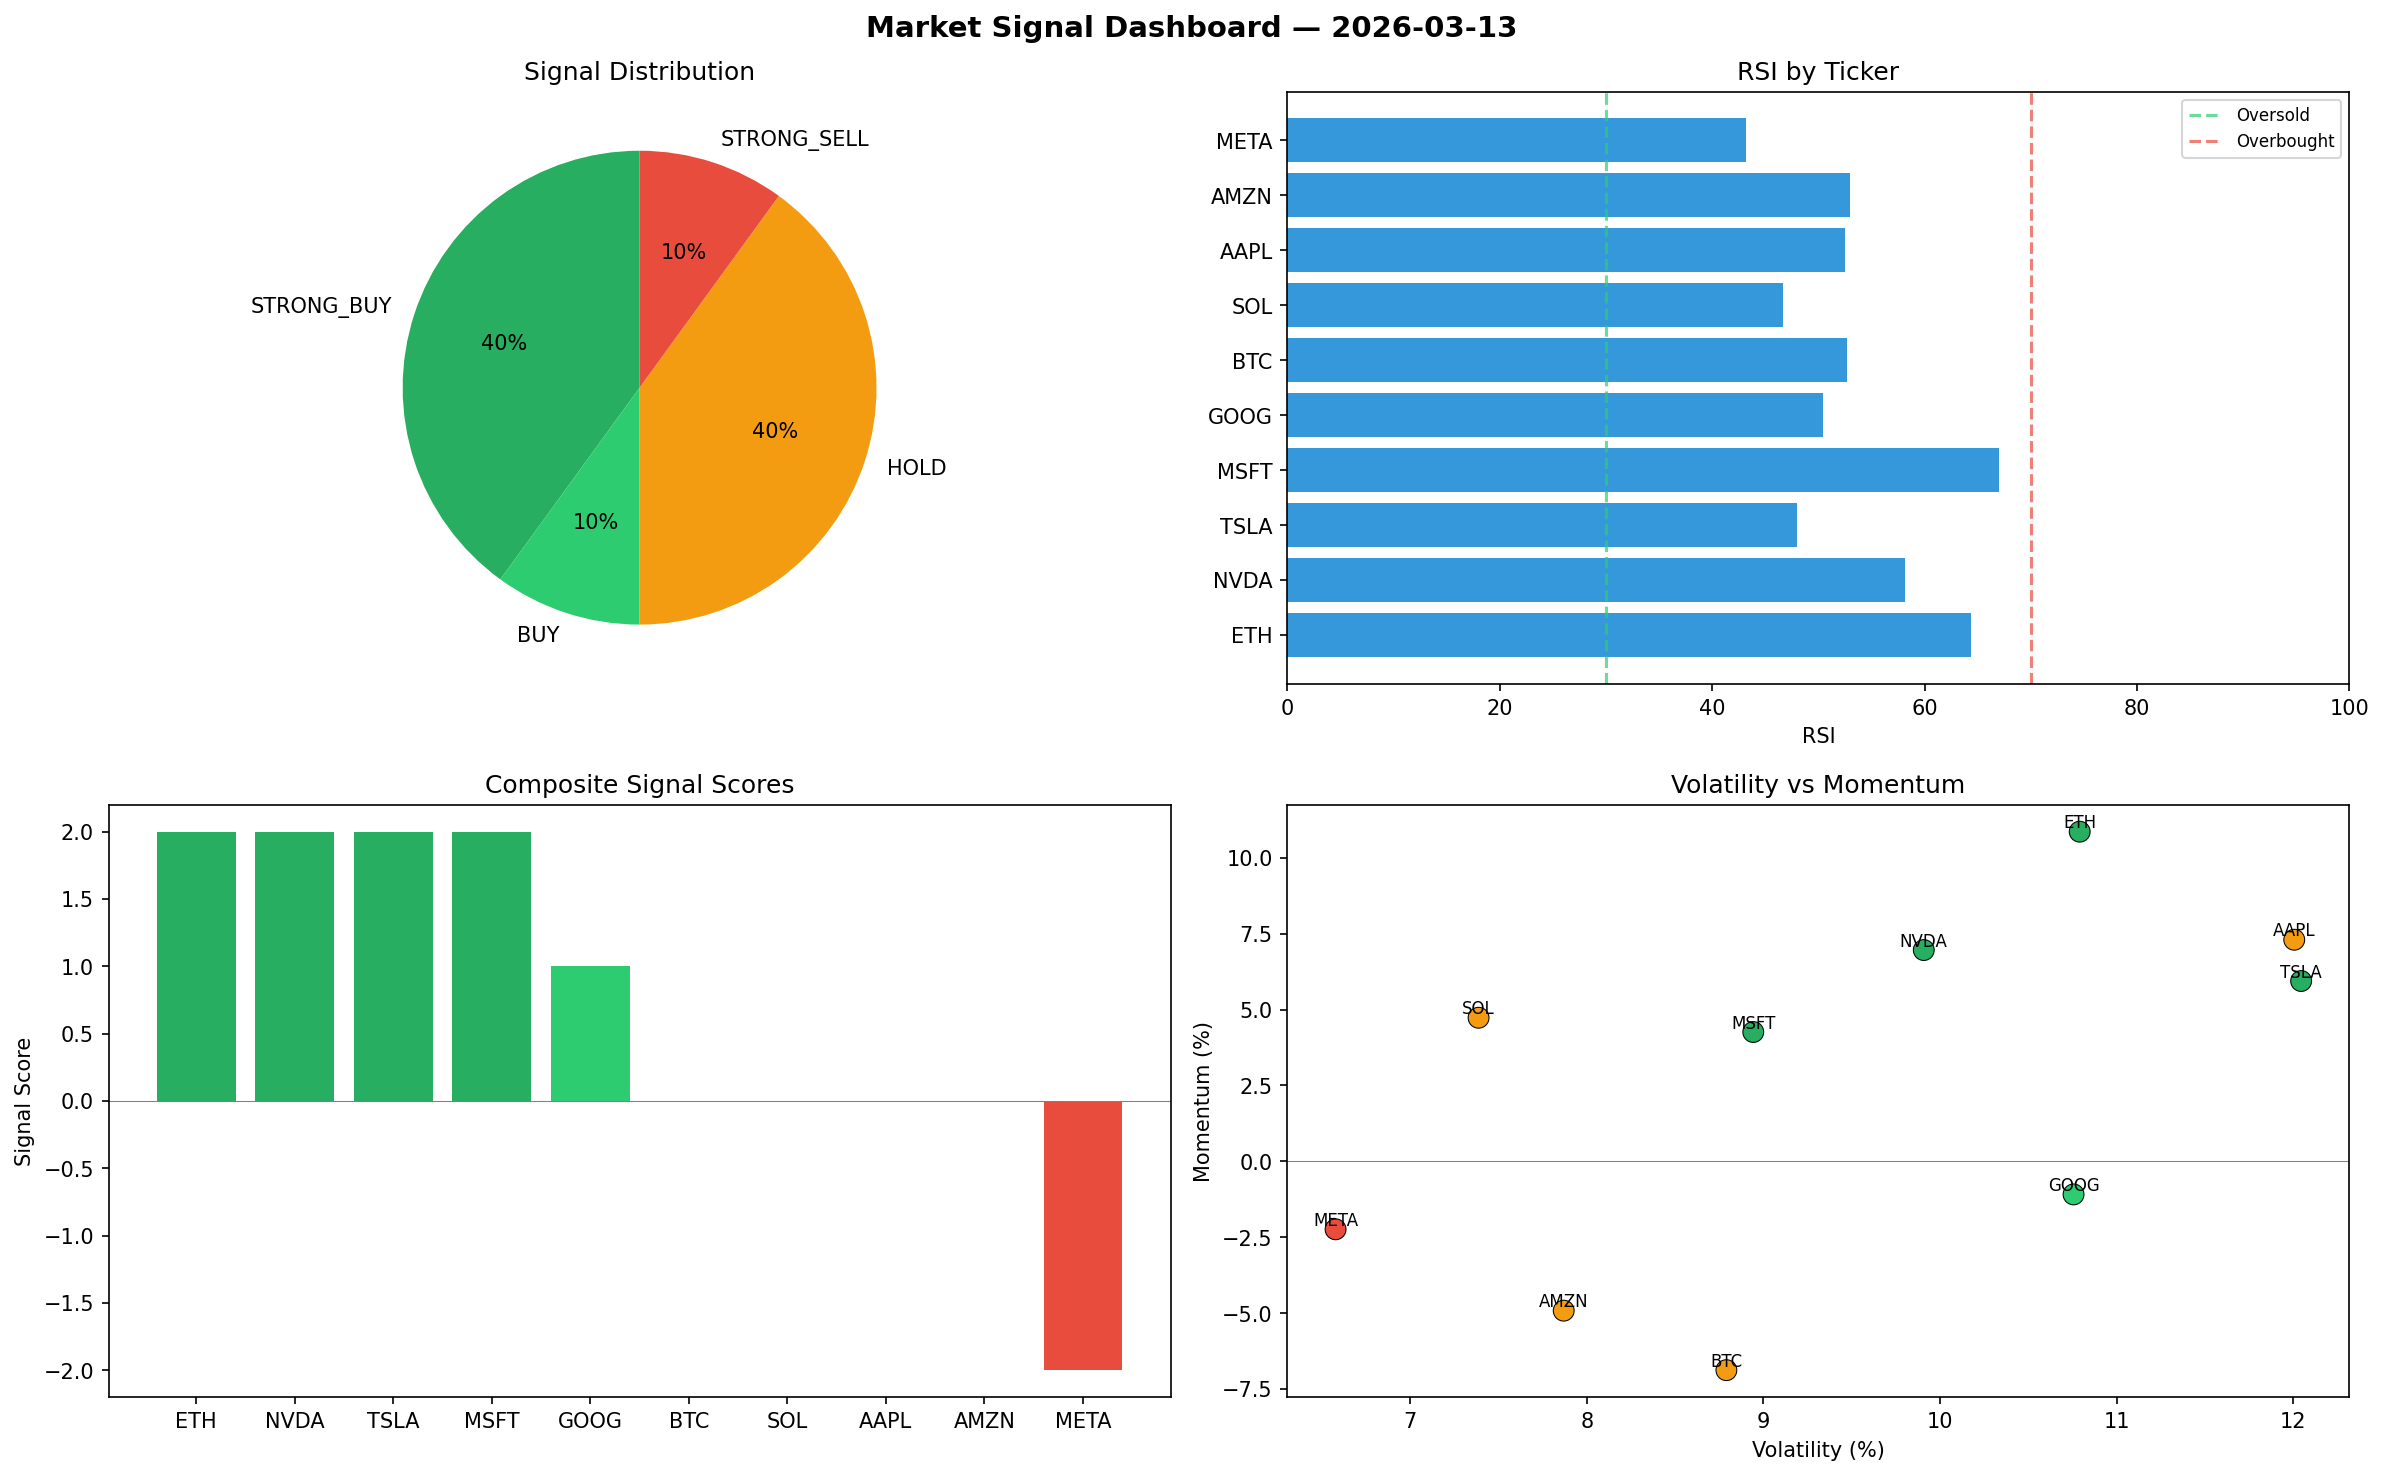
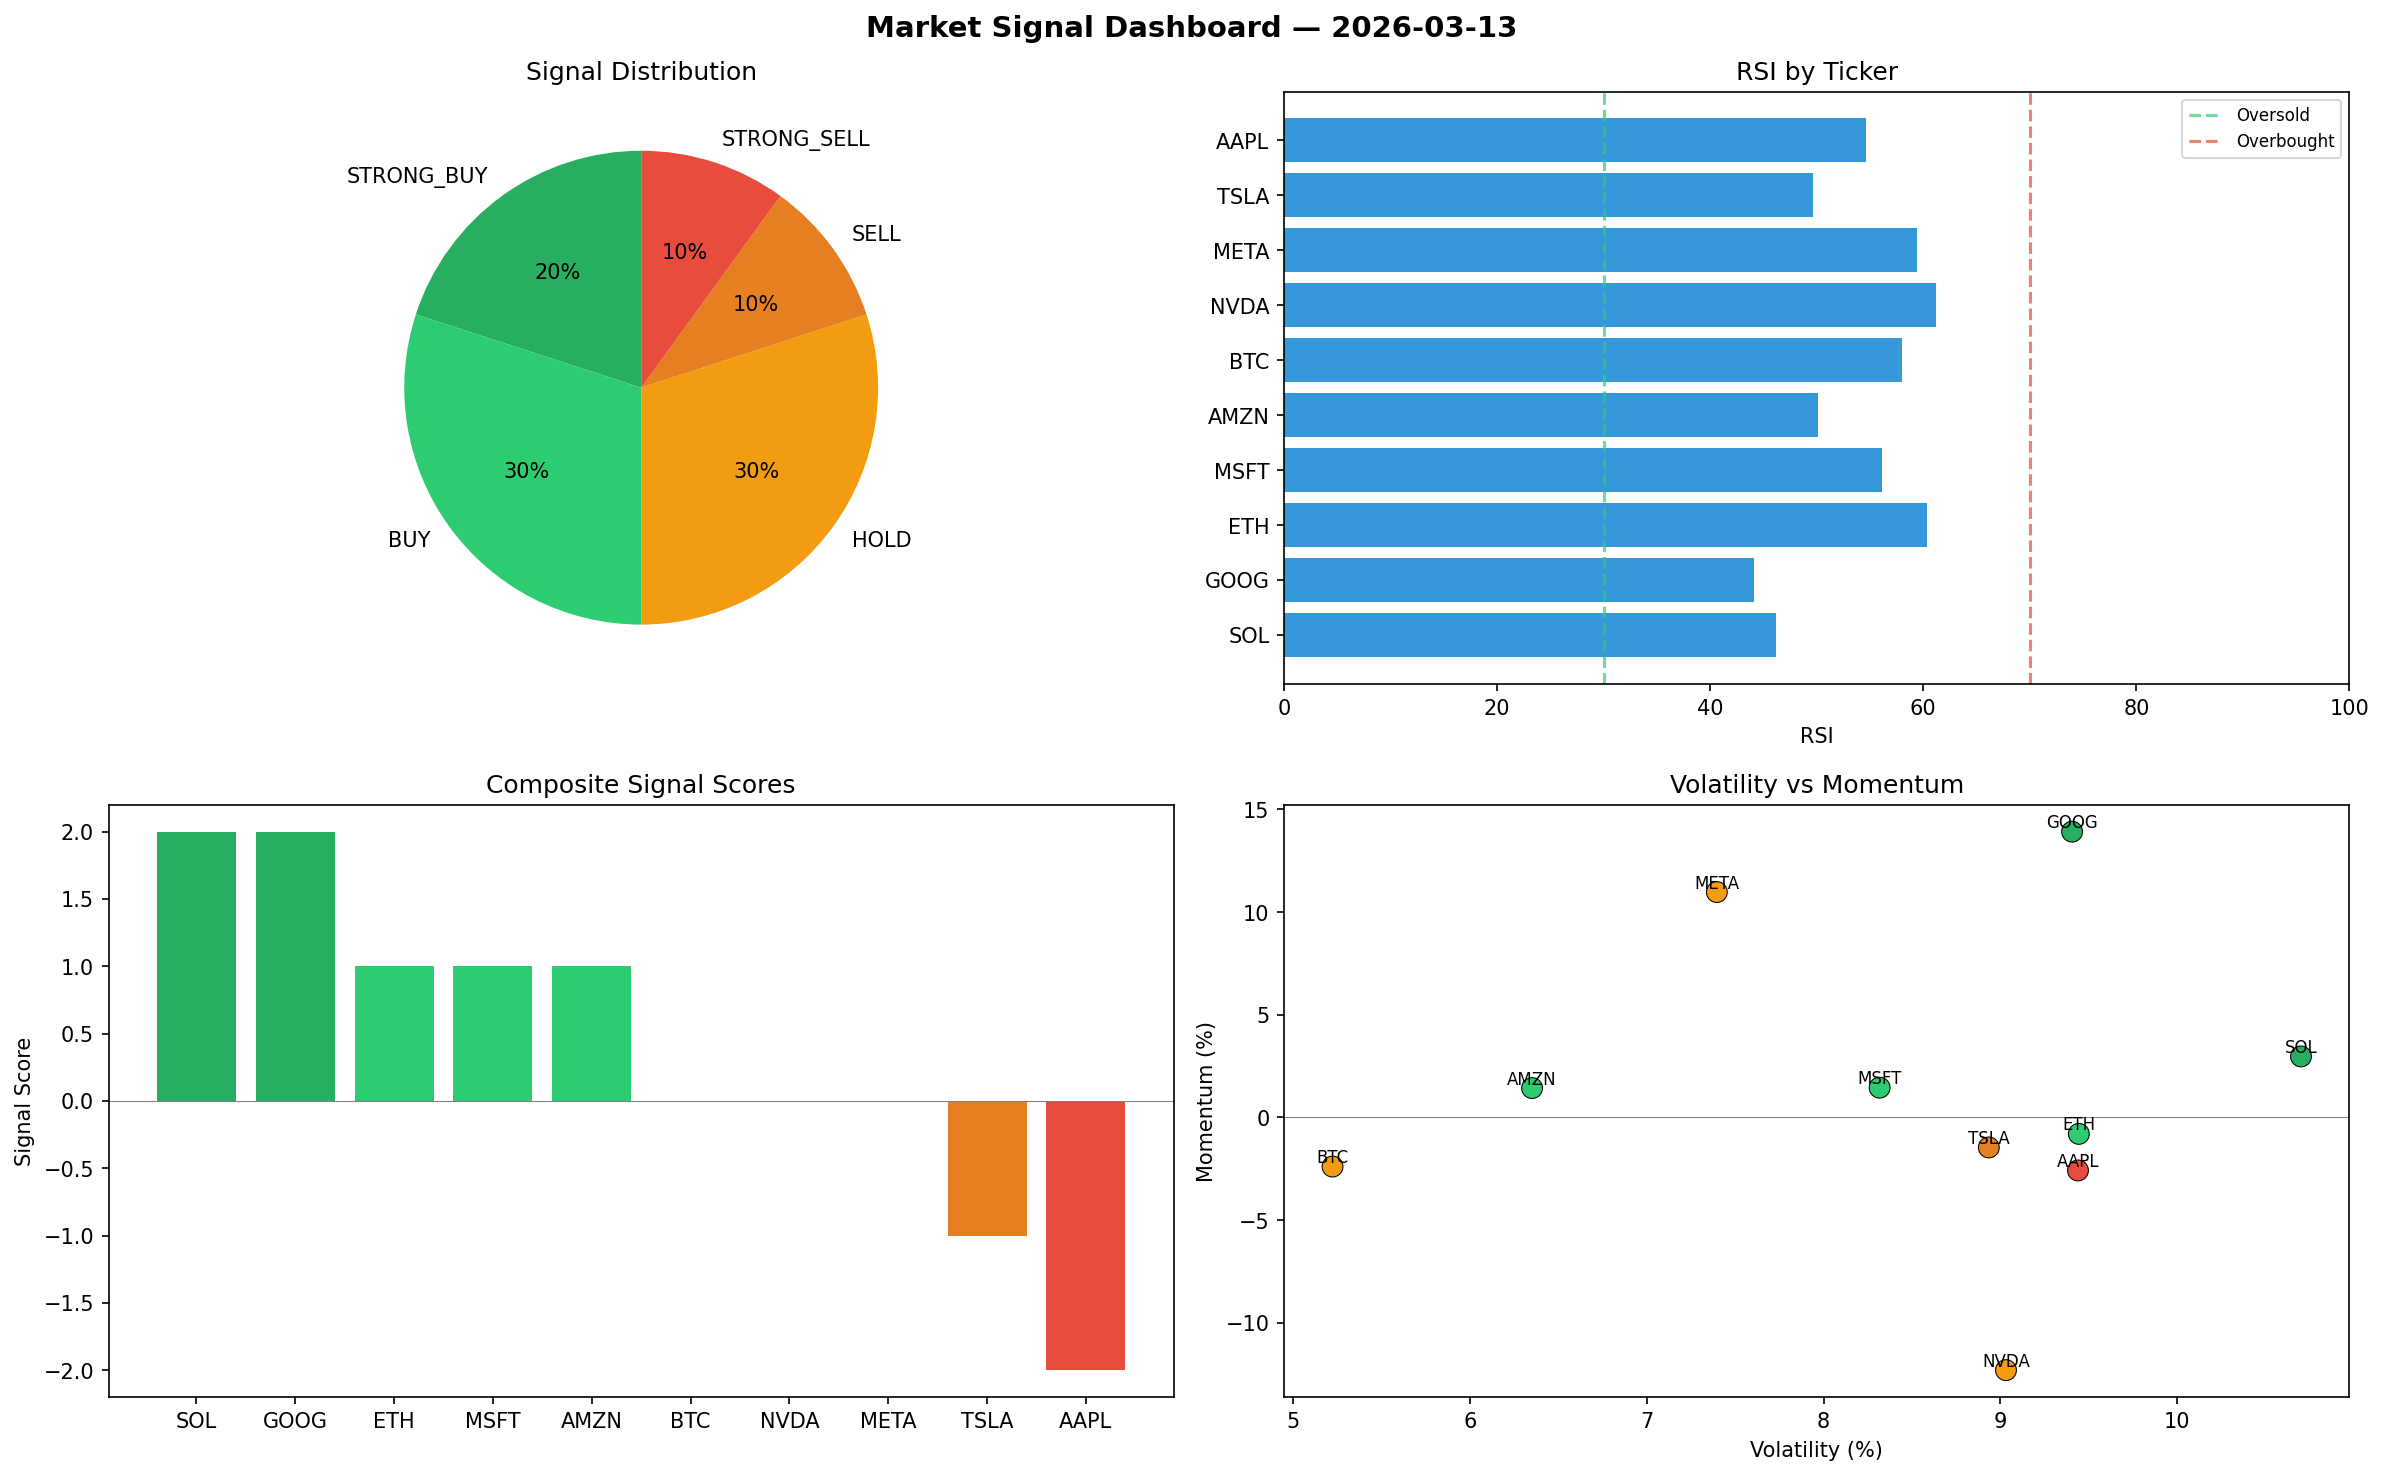
automated-bots: market signals 2026-03-13T15:09

diff --git a/logs/2026-03-13.md b/logs/2026-03-13.md
@@ -1,6 +1,6 @@
 # Market Signal Report — 2026-03-13
 
-**Run ID:** `e74c6bc49b` | **Buy:** 5 | **Sell:** 1 | **Hold:** 4
+**Run ID:** `c3b23b303a` | **Buy:** 5 | **Sell:** 2 | **Hold:** 3
 
 ![Dashboard](2026-03-13_dashboard.png)
 
@@ -8,28 +8,28 @@
 
 | Ticker | Price | Signal | Score | RSI | Momentum | Confidence |
 |--------|-------|--------|-------|-----|----------|------------|
-| ETH | $4613.68 | **STRONG_BUY** | 2 | 64.33 | 0.1086 | 0.5 |
-| NVDA | $940.86 | **STRONG_BUY** | 2 | 58.15 | 0.0696 | 0.5 |
-| TSLA | $3290.31 | **STRONG_BUY** | 2 | 47.95 | 0.0594 | 0.5 |
-| MSFT | $4554.82 | **STRONG_BUY** | 2 | 67.05 | 0.0426 | 0.5 |
-| GOOG | $3646.85 | **BUY** | 1 | 50.46 | -0.0109 | 0.25 |
-| BTC | $132.55 | **HOLD** | 0 | 52.68 | -0.0688 | 0.0 |
-| SOL | $109.8 | **HOLD** | 0 | 46.71 | 0.0473 | 0.0 |
-| AAPL | $4434.22 | **HOLD** | 0 | 52.48 | 0.073 | 0.0 |
-| AMZN | $279.65 | **HOLD** | 0 | 52.95 | -0.0492 | 0.0 |
-| META | $2406.93 | **STRONG_SELL** | -2 | 43.18 | -0.0224 | 0.5 |
+| SOL | $1079.59 | **STRONG_BUY** | 2 | 46.17 | 0.0297 | 0.5 |
+| GOOG | $1895.51 | **STRONG_BUY** | 2 | 44.08 | 0.1391 | 0.5 |
+| ETH | $893.64 | **BUY** | 1 | 60.37 | -0.008 | 0.25 |
+| MSFT | $1288.53 | **BUY** | 1 | 56.09 | 0.0145 | 0.25 |
+| AMZN | $4545.01 | **BUY** | 1 | 50.16 | 0.0143 | 0.25 |
+| BTC | $1890.39 | **HOLD** | 0 | 57.97 | -0.0239 | 0.0 |
+| NVDA | $2932.95 | **HOLD** | 0 | 61.18 | -0.123 | 0.0 |
+| META | $1557.54 | **HOLD** | 0 | 59.4 | 0.1097 | 0.0 |
+| TSLA | $1775.18 | **SELL** | -1 | 49.69 | -0.0146 | 0.25 |
+| AAPL | $4538.66 | **STRONG_SELL** | -2 | 54.59 | -0.0258 | 0.5 |
 
 ## Delta vs Yesterday
 
 | Ticker | Today | Yesterday | Price Change | Signal Changed |
 |--------|-------|-----------|-------------|----------------|
-| ETH | STRONG_BUY | STRONG_BUY | 📈 78.33% | — |
-| NVDA | STRONG_BUY | STRONG_BUY | 📉 -48.26% | — |
-| TSLA | STRONG_BUY | STRONG_BUY | 📈 1765.68% | — |
-| MSFT | STRONG_BUY | STRONG_BUY | 📈 1476.06% | — |
-| GOOG | BUY | STRONG_BUY | 📈 379.88% | ⚠ YES |
-| BTC | HOLD | STRONG_BUY | 📉 -90.31% | ⚠ YES |
-| SOL | HOLD | STRONG_BUY | 📉 -93.49% | ⚠ YES |
-| AAPL | HOLD | STRONG_BUY | 📈 177.88% | ⚠ YES |
-| AMZN | HOLD | STRONG_SELL | 📉 -92.77% | ⚠ YES |
-| META | STRONG_SELL | STRONG_BUY | 📉 -39.8% | ⚠ YES |
+| SOL | STRONG_BUY | STRONG_BUY | 📉 -36.02% | — |
+| GOOG | STRONG_BUY | STRONG_BUY | 📈 149.43% | — |
+| ETH | BUY | STRONG_BUY | 📉 -65.46% | ⚠ YES |
+| MSFT | BUY | STRONG_BUY | 📈 345.86% | ⚠ YES |
+| AMZN | BUY | STRONG_SELL | 📈 17.54% | ⚠ YES |
+| BTC | HOLD | STRONG_BUY | 📈 38.24% | ⚠ YES |
+| NVDA | HOLD | STRONG_BUY | 📈 61.3% | ⚠ YES |
+| META | HOLD | STRONG_BUY | 📉 -61.04% | ⚠ YES |
+| TSLA | SELL | STRONG_BUY | 📈 906.57% | ⚠ YES |
+| AAPL | STRONG_SELL | STRONG_BUY | 📈 184.42% | ⚠ YES |
